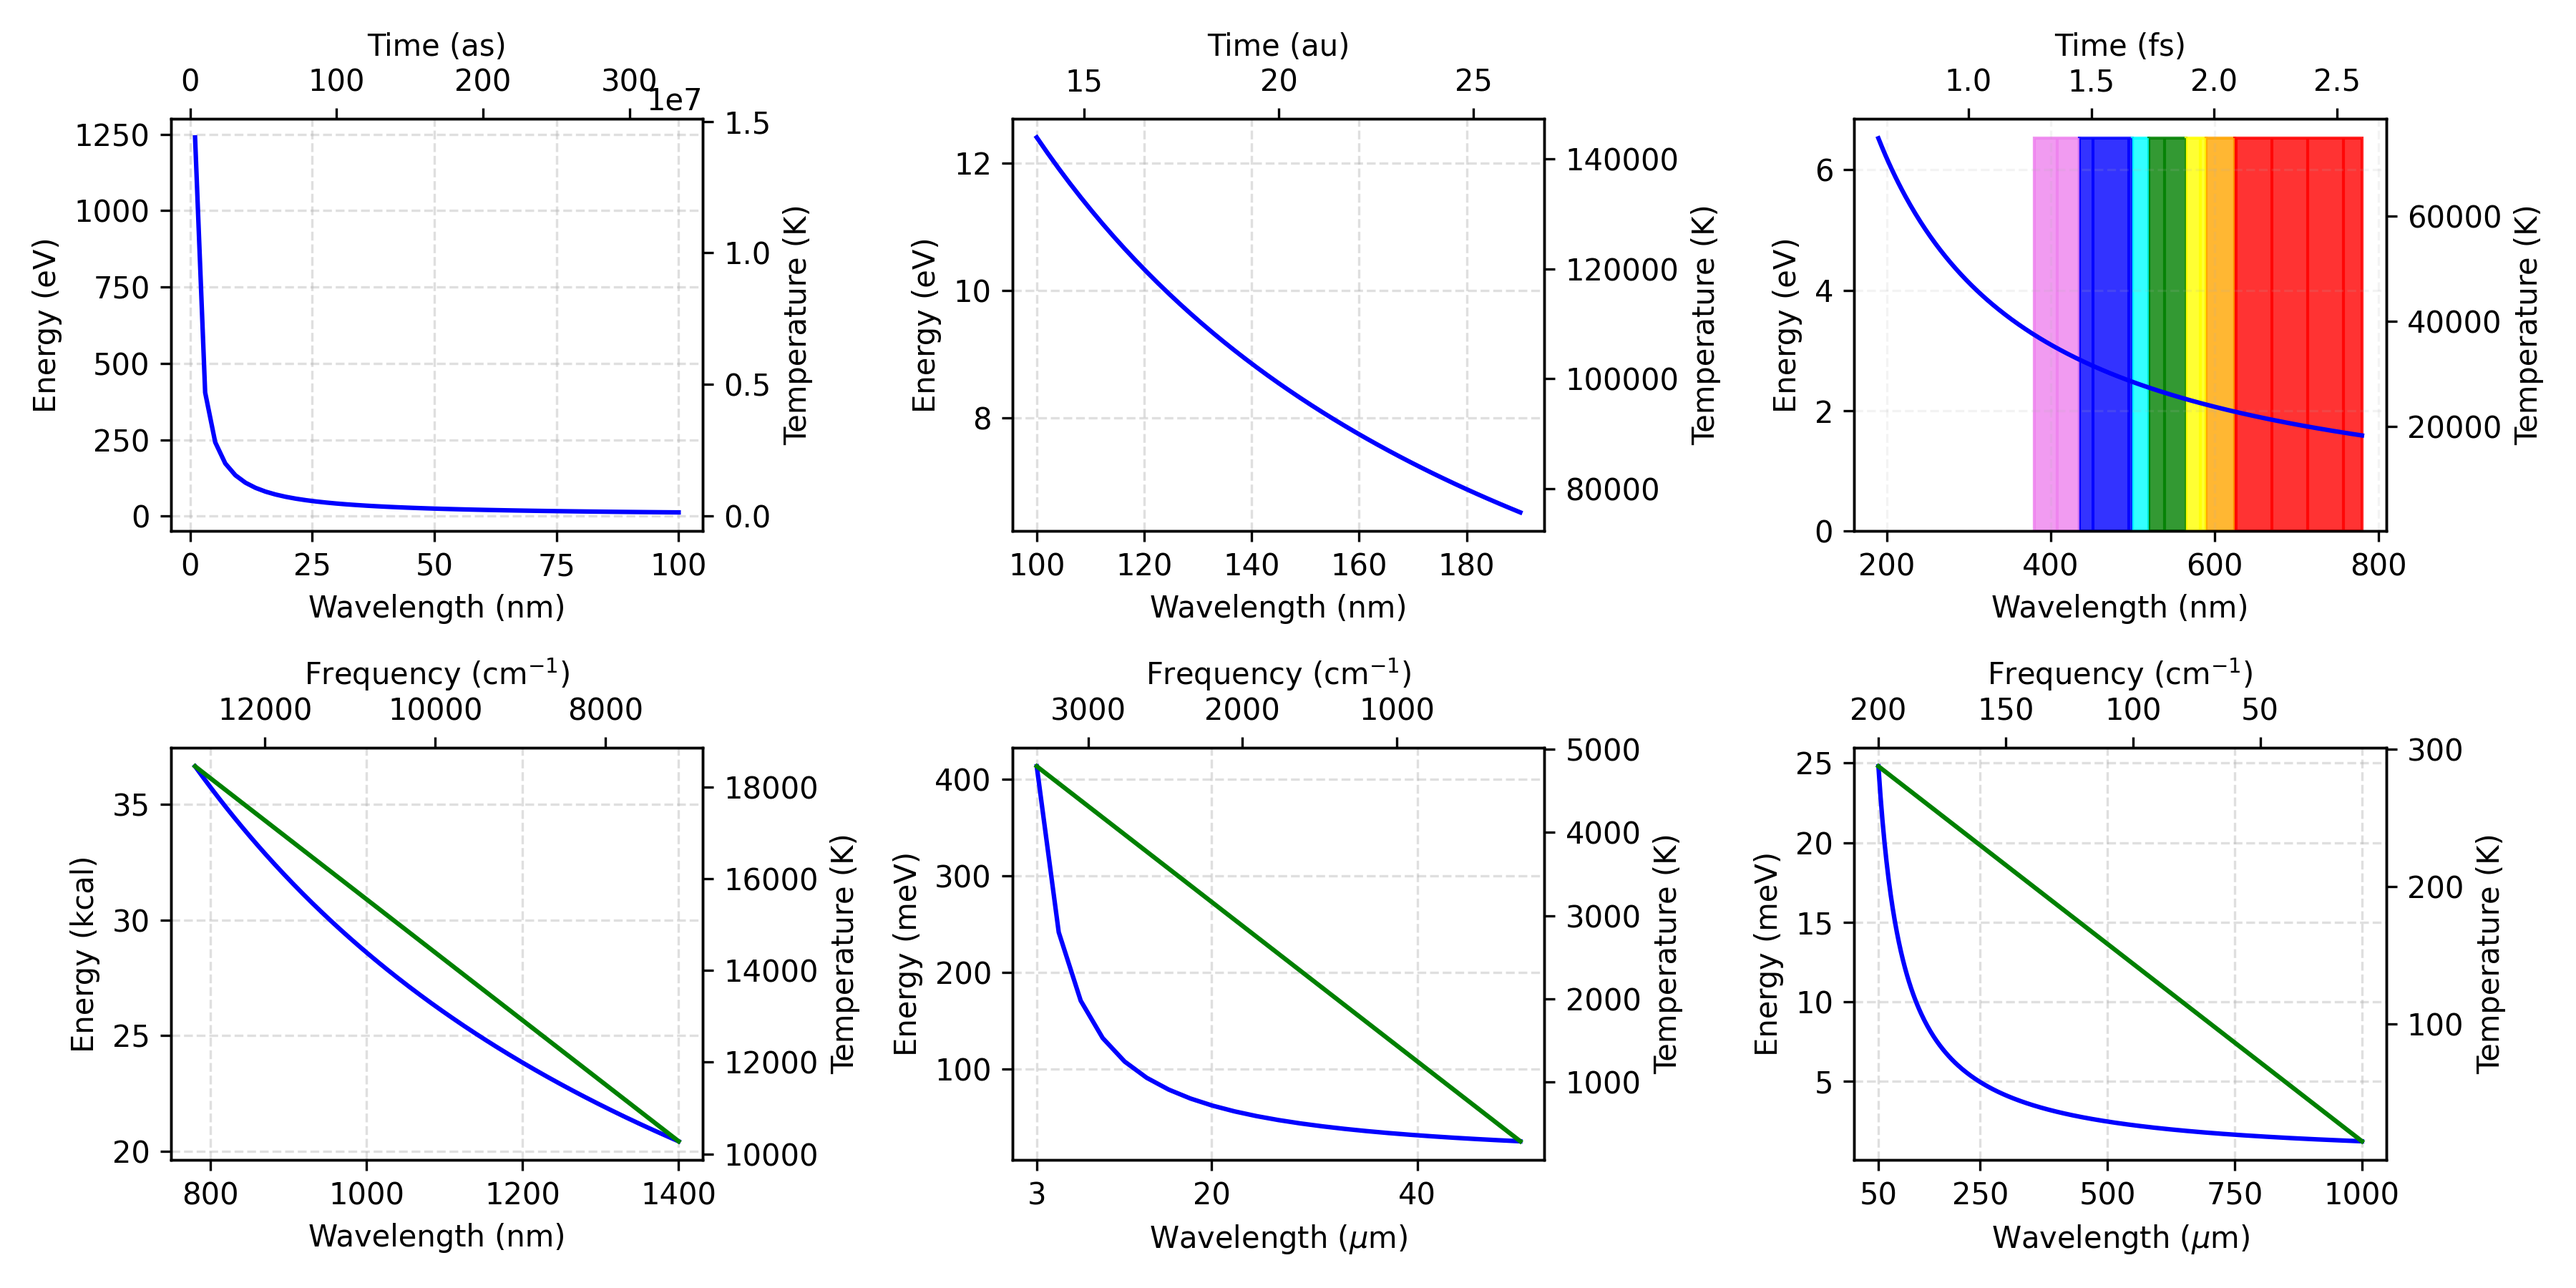
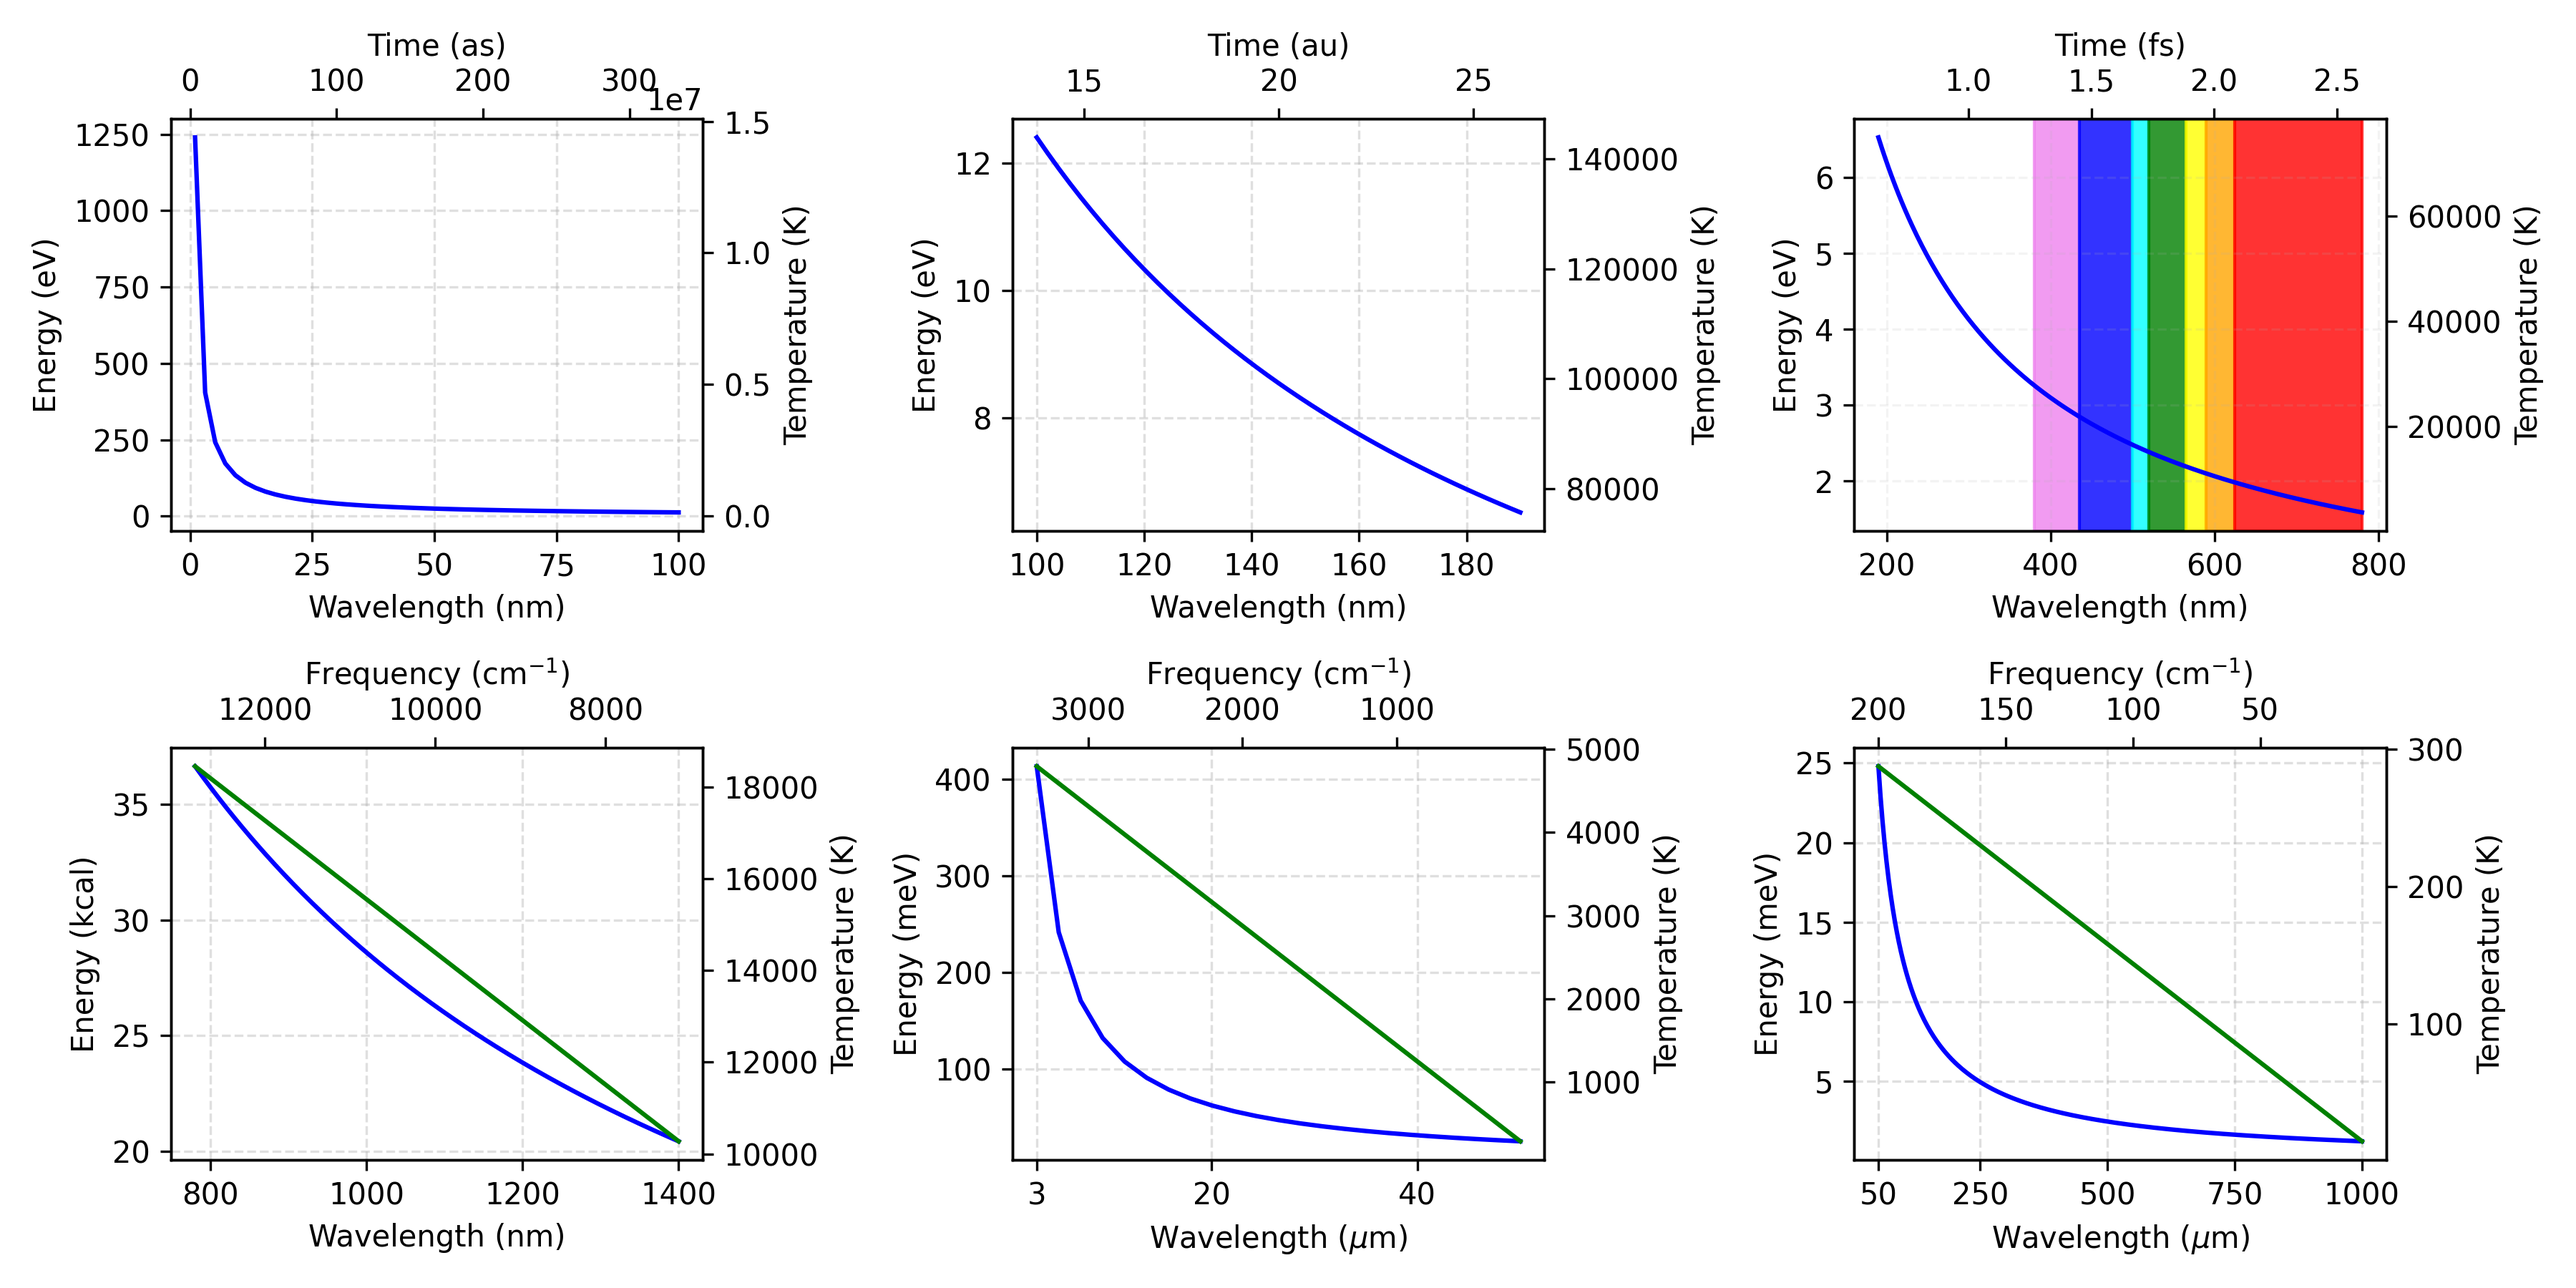
change to axvspan

Changed region(s): [[0.7778, 0.0933, 0.9333, 0.4044], [0.7467, 0.1867, 0.7778, 0.2489], [0.7156, 0.1244, 0.7467, 0.1867]]

diff --git a/src/plot_wave_energy_temperature.py b/src/plot_wave_energy_temperature.py
@@ -104,11 +104,11 @@ def plot_wave_energy_frequency():
         ax1.grid(ls='--', alpha=alpha)
 
         if i == 2:
-            hight = energy[i][0]
+            #hight = energy[i][0]
             for key, (v0, v1) in list(wave_names.items())[5:12]:
                 width = v1 - v0
-                ax1.bar(v0, hight, width, color=key, align='edge', alpha=.8)
-                ax1.bar(v0, hight, width, color='none', edgecolor=key, align='edge', alpha=.85, hatch='|', zorder=0)
+                #ax1.bar(v0, hight, width, color='none', edgecolor=key, align='edge', alpha=.85, hatch='|', zorder=0)
+                ax1.axvspan(v0, v1, color=key, alpha=.8)
 
 
     plt.tight_layout()
